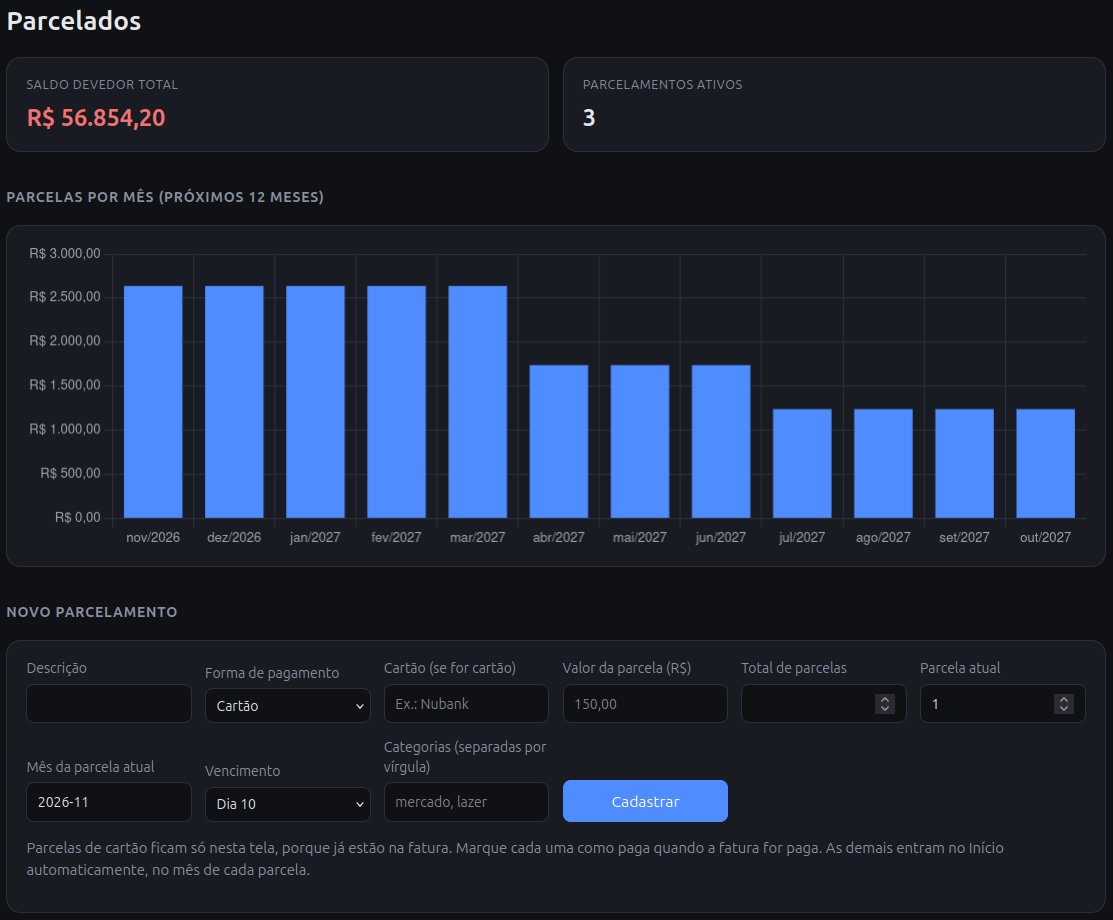
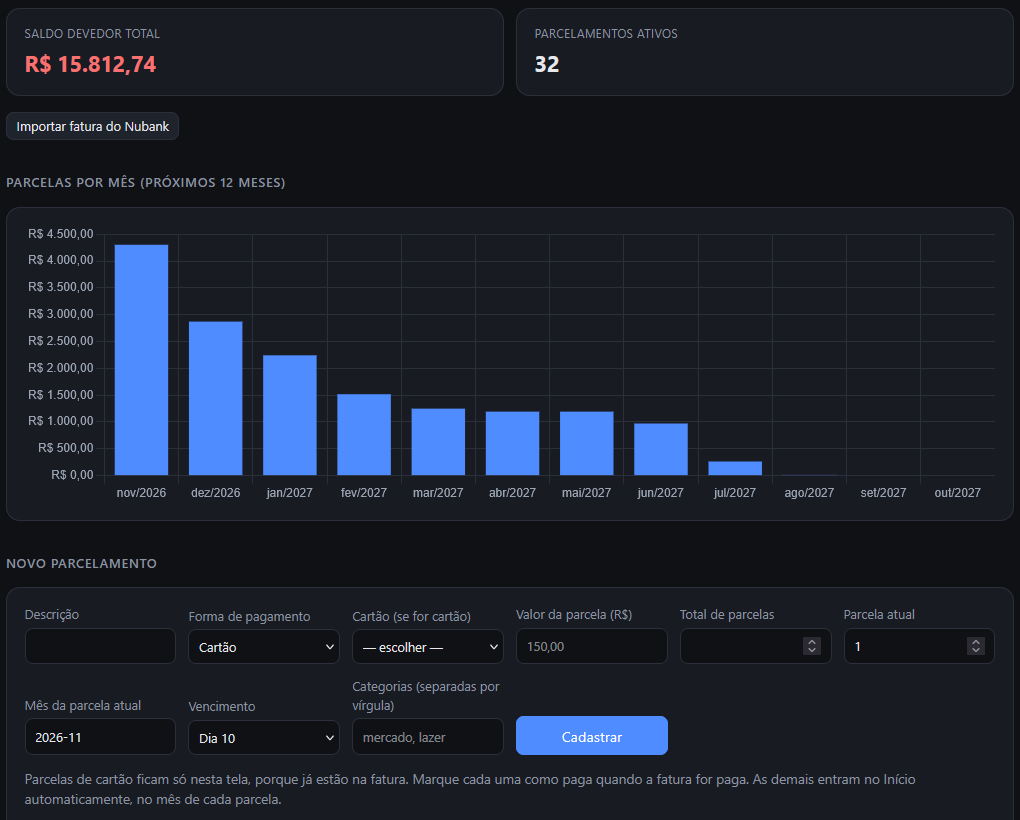
Docs: README com importação, cartões, banco demo e faturas fictícias

diff --git a/README.md b/README.md
@@ -16,11 +16,27 @@ Visão do mês escolhido: totais de receitas, despesas, saldo e o que já foi pa
 
 ### Parcelados
 
-Todos os parcelamentos em andamento, com a forma de pagamento, o cartão (quando houver), as categorias e o saldo que ainda falta pagar. Traz um gráfico com o total de parcelas por mês e o formulário para cadastrar um novo parcelamento.
+Todos os parcelamentos em andamento, com a forma de pagamento, o cartão (quando houver), as categorias e o saldo que ainda falta pagar. Traz um gráfico com o total de parcelas por mês e o formulário para cadastrar um novo parcelamento. O cartão é escolhido na lista de cartões cadastrados.
 
 ![Parcelados](docs/parcelados.png)
 
 ![Parcelados, outra visão](docs/parcelados1.png)
+
+#### Importar fatura do Nubank
+
+Pela aba Parcelados, o botão **Importar fatura** lê o CSV da fatura do Nubank e cria os parcelamentos das compras parceladas. Antes de gravar, mostra uma prévia:
+
+- compras novas, marcadas para entrar;
+- compras que já estão cadastradas (com o nome que você deu a elas), que são puladas por padrão, mas podem ser atualizadas;
+- compras ignoradas em importações anteriores, para não voltarem a aparecer sem você querer.
+
+Pagamentos e estornos são ignorados. O mês da fatura é escolhido em uma lista de mês e ano, já preenchida com o mês atual, e o vencimento sai do dia de pagamento cadastrado no cartão.
+
+![Tela inicial da importação](docs/importar.png)
+
+![Prévia da primeira importação](docs/importar1.png)
+
+![Prévia da importação do mês seguinte, com compras novas, já cadastradas e ignoradas](docs/importar2.png)
 
 ---
 
@@ -36,7 +52,15 @@ Regras mensais, como salário, aluguel e assinaturas. A tabela de verificação 
 
 Lista das categorias usadas nos lançamentos. Ao abrir uma categoria, você vê os lançamentos dela no mês escolhido e um gráfico com a evolução mensal de receitas e despesas dela.
 
-![Categorias](docs/categorias.png)
+![Detalhamento de uma categoria](docs/categorias.png)
+
+---
+
+### Cartões
+
+Cadastro dos cartões, com o dia de pagamento da fatura (por exemplo, dia 5). Se o dia cair em fim de semana, o vencimento passa para o próximo dia útil. Os cartões cadastrados aparecem nas listas de Parcelados, Recorrentes e na importação da fatura. Um cartão que tem parcelamentos ou recorrentes vinculados não pode ser excluído.
+
+![Cartões](docs/cartoes.png)
 
 ---
 
@@ -55,6 +79,8 @@ Vencimento padrão dos lançamentos, horizonte da projeção, backup e importaç
 - Recorrentes: regras mensais que geram lançamentos nos próximos 12 meses. Podem ter valor fixo ou variável (estimativa, ajustada mês a mês) e categorias.
 - Vencimento padrão configurável, com a opção de 1º dia útil (segunda a sexta, sem feriados).
 - Parcelados: boleto, carnê, financiamento ou cartão, com categorias. Parcelas de cartão ficam só na aba Parcelados.
+- Importação da fatura do Nubank (CSV), com prévia antes de gravar, reconhecimento de compras já cadastradas e de compras ignoradas.
+- Cadastro de cartões com dia de pagamento, escolhidos por lista nos formulários.
 - Categorias, com filtro por mês, gráfico mensal de receitas e despesas e links a partir de cada lançamento. A categoria "terceiro" não entra no total.
 - Projeção dos próximos meses: compromissos cadastrados mais a média dos gastos avulsos.
 - Gráficos de receitas × despesas por mês e de parcelas por mês.
@@ -62,11 +88,11 @@ Vencimento padrão dos lançamentos, horizonte da projeção, backup e importaç
 
 ## Últimas versões
 
+- **0.0.15**: importação da fatura do Nubank com prévia; cadastro de cartões com dia de pagamento; cartão escolhido por lista nos formulários.
 - **0.0.14**: navbar com rolagem no celular e lançamentos em linha única no celular.
 - **0.0.13**: início com receitas e despesas separadas e cores por tipo; categorias clicáveis no início; gráfico mensal por categoria.
 - **0.0.12**: remoção do código legado de faturas e textos de categorias.
 - **0.0.11**: código do app dividido em módulos por tela e testes automatizados.
-- **0.0.10**: categorias e cartões em caixinhas clicáveis.
 
 Histórico completo em [CHANGELOG completo](financas/CHANGELOG.md).
 
@@ -75,6 +101,8 @@ Histórico completo em [CHANGELOG completo](financas/CHANGELOG.md).
 1. Vá em Configurações → Apps → Loja → menu ⋮ → Repositórios.
 2. Adicione o endereço deste repositório.
 3. Instale o Finanças, inicie e ative "Mostrar na barra lateral".
+
+**Atualizando para 0.0.15:** esta versão cria colunas e uma tabela novas no banco. Se você já tem dados, baixe um backup pela aba Configurações antes e depois reinstale o add-on ou apague o banco.
 
 ## Rodar localmente (desenvolvimento)
 
@@ -87,10 +115,26 @@ Requisitos: uv e Python 3.15 (ou outra versão compatível com as dependências)
 
 Abra http://127.0.0.1:8000 no navegador. O banco de teste fica em finance-dev.db, separado de qualquer banco real.
 
-Para gerar um banco de demonstração com dados fictícios:
+### Banco de demonstração
+
+Para ver o app com dados fictícios (parcelados, recorrentes, categorias e cartões), gere o banco demo e suba o servidor nele:
 
     cd financas
     PYTHONPATH=. FINANCAS_DB=./demo.db uv run python scripts/seed_demo.py
+    FINANCAS_DB=./demo.db uv run uvicorn app.main:app --port 8001
+
+Abra http://127.0.0.1:8001 no navegador.
+
+Para testar a importação de fatura com dados fictícios, os arquivos de exemplo estão em `financas/scripts/demo/`:
+
+- `fatura_nov.csv`: primeira fatura. Tem compras parceladas, um pagamento e um estorno (que são ignorados).
+- `fatura_dez.csv`: fatura do mês seguinte, com as mesmas compras com a parcela avançada e uma compra nova.
+
+Roteiro sugerido:
+
+1. Cadastre um cartão em **Cartões**, com dia de pagamento.
+2. Em **Parcelados → Importar fatura**, envie o `fatura_nov.csv`. Desmarque uma compra na prévia (por exemplo, "Academia Teste") e grave.
+3. Importe o `fatura_dez.csv`. A prévia mostra as compras já cadastradas e a compra desmarcada como ignorada.
 
 Para rodar os testes automatizados:
 
@@ -111,9 +155,10 @@ O banco SQLite fica em /data/finance.db dentro do add-on e não é versionado. A
 - financas/DOCS.md: guia de uso mostrado dentro do Home Assistant.
 - financas/app/main.py: cria o app e inclui as telas.
 - financas/app/web.py: templates, filtros, prefixo do ingress e redirecionamento.
-- financas/app/routers/: rotas de cada tela (lançamentos, parcelados, categorias, recorrentes e configurações).
-- financas/app/services/: regras de negócio (recorrentes, parcelados, projeção, resumo, gráficos, categorias e configurações).
+- financas/app/routers/: rotas de cada tela (lançamentos, parcelados, importação, categorias, recorrentes, cartões e configurações).
+- financas/app/services/: regras de negócio (recorrentes, parcelados, importação de fatura, leitura do CSV do Nubank, cartões, projeção, resumo, gráficos, categorias e configurações).
 - financas/app/templates/: telas em Jinja2.
 - financas/scripts/: utilitários de desenvolvimento, como o gerador de dados de demonstração.
+- financas/scripts/demo/: faturas fictícias para testar a importação.
 - financas/tests/: testes automatizados.
 - financas/CHANGELOG.md: histórico de versões.
